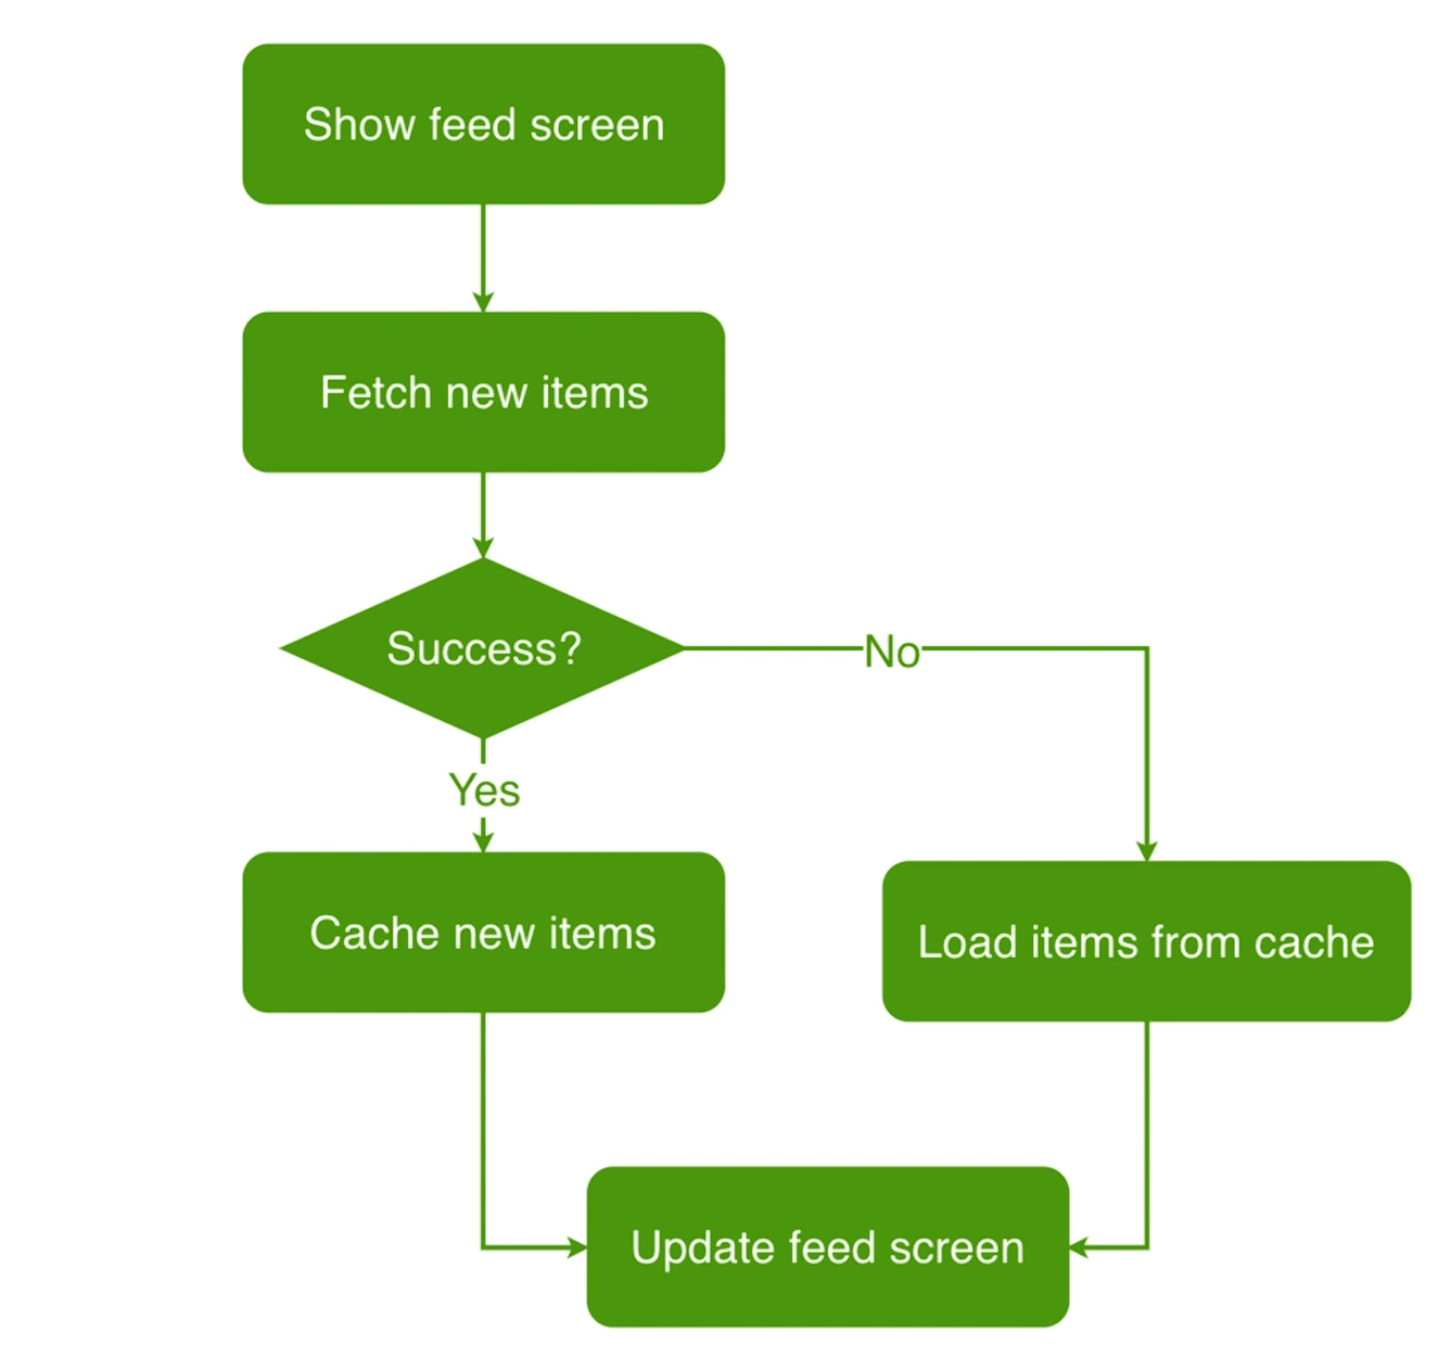
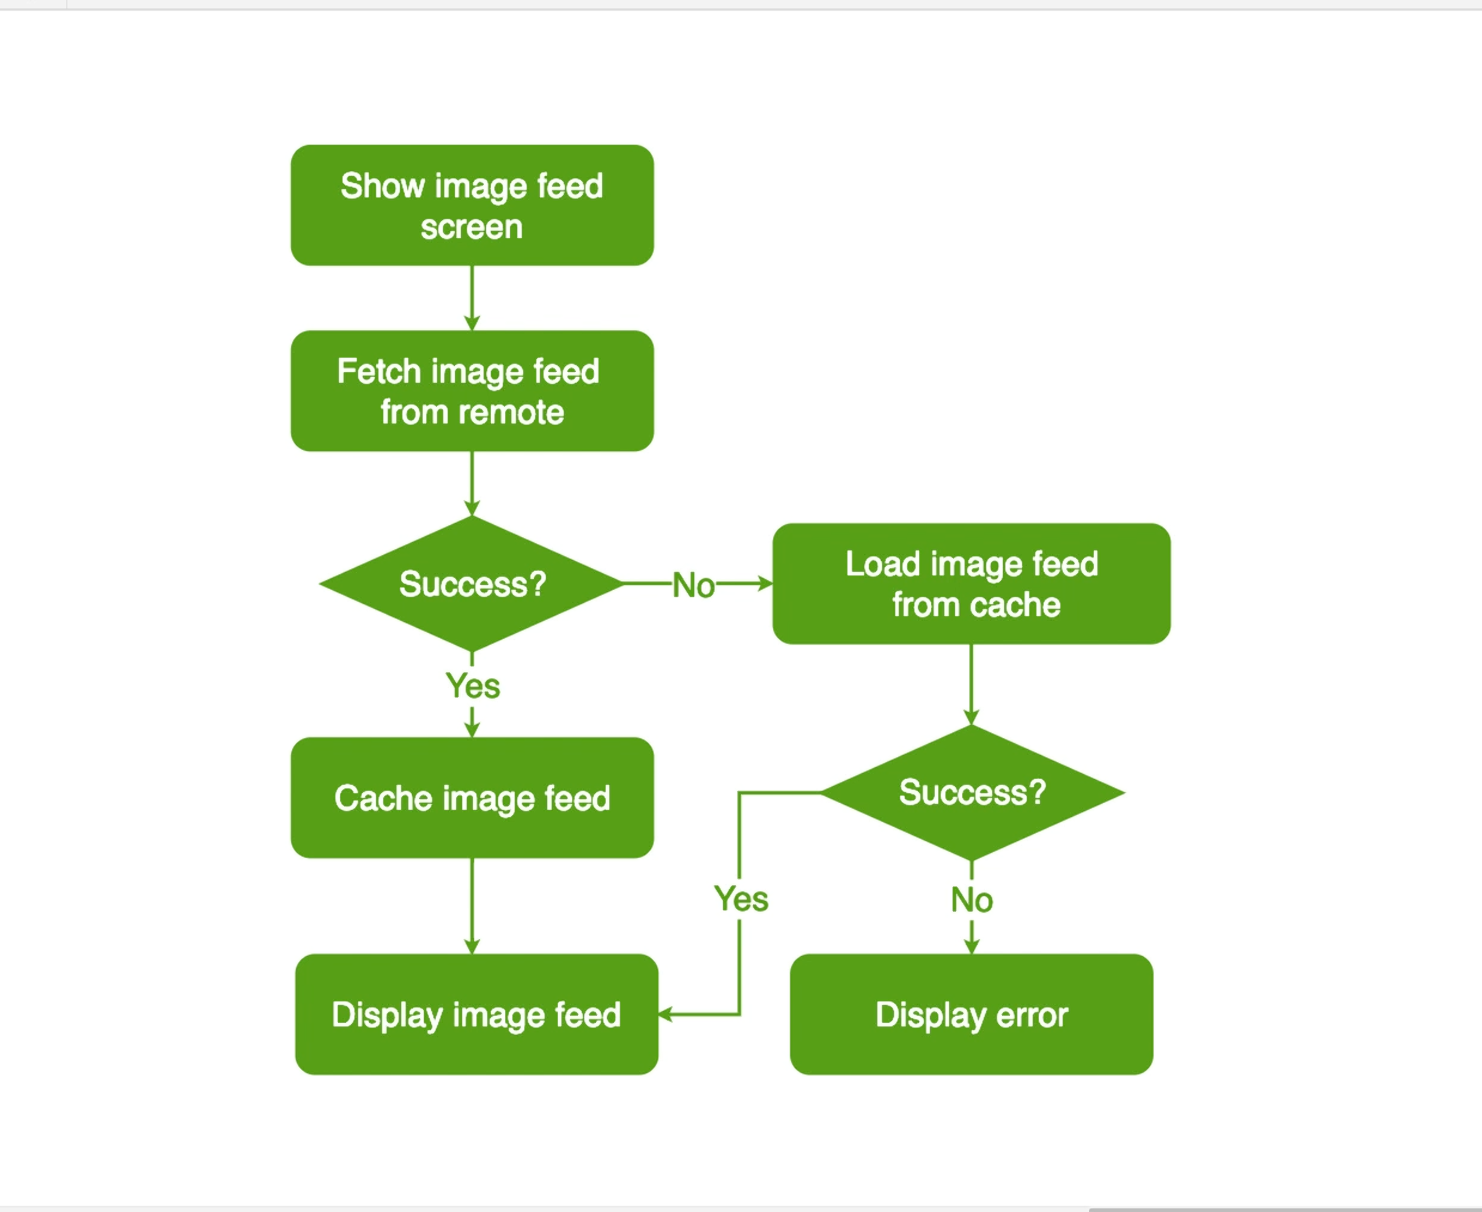
Remove references of "items" in favor of "images" which is a domain term used by domain experts in the specs

Changed region(s): [[0.1556, 0.0305, 0.9959, 0.9769], [0.7469, 0.9769, 1.0, 1.0]]

diff --git a/Tests/EssentialFeedTests/Feed Cache/CacheFeedUseCaseTests.swift b/Tests/EssentialFeedTests/Feed Cache/CacheFeedUseCaseTests.swift
@@ -17,7 +17,7 @@ final class CacheFeedUseCase: XCTestCase {
     func test_save_requestsCacheDeletion() {
         let (sut, store) = makeSUT()
 
-        sut.save(uniqueItems().models) { _ in }
+        sut.save(uniqueImageFeed().models) { _ in }
 
         XCTAssertEqual(store.receivedMessages, [.deleteCachedFeed])
     }
@@ -26,7 +26,7 @@ final class CacheFeedUseCase: XCTestCase {
         let (sut, store) = makeSUT()
         let deletionError = anyNSError()
 
-        sut.save(uniqueItems().models) { _ in }
+        sut.save(uniqueImageFeed().models) { _ in }
         store.completeDeletion(with: deletionError)
 
         XCTAssertEqual(store.receivedMessages, [.deleteCachedFeed])
@@ -34,13 +34,13 @@ final class CacheFeedUseCase: XCTestCase {
 
     func test_save_requestsNewCacheInsertionWithTimestampOnSuccessfulDeletion() {
         let timestamp = Date()
-        let items = uniqueItems()
+        let feed = uniqueImageFeed()
         let (sut, store) = makeSUT(currentDate: { timestamp })
 
-        sut.save(items.models) { _ in }
+        sut.save(feed.models) { _ in }
         store.completeDeletionSuccessfully()
 
-        XCTAssertEqual(store.receivedMessages, [.deleteCachedFeed, .insert(items.local, timestamp)])
+        XCTAssertEqual(store.receivedMessages, [.deleteCachedFeed, .insert(feed.local, timestamp)])
     }
 
     func test_save_failsOnDeletionError() {
@@ -76,7 +76,7 @@ final class CacheFeedUseCase: XCTestCase {
         var sut: LocalFeedLoader? = LocalFeedLoader(store: store, currentDate: Date.init)
 
         var receivedResults = [LocalFeedLoader.SaveResult]()
-        sut?.save(uniqueItems().models) { receivedResults.append($0) }
+        sut?.save(uniqueImageFeed().models) { receivedResults.append($0) }
 
         sut = nil
         store.completeDeletion(with: anyNSError())
@@ -89,7 +89,7 @@ final class CacheFeedUseCase: XCTestCase {
         var sut: LocalFeedLoader? = LocalFeedLoader(store: store, currentDate: Date.init)
 
         var receivedResults = [LocalFeedLoader.SaveResult]()
-        sut?.save(uniqueItems().models) { receivedResults.append($0) }
+        sut?.save(uniqueImageFeed().models) { receivedResults.append($0) }
 
         store.completeDeletionSuccessfully()
         sut = nil
@@ -122,7 +122,7 @@ final class CacheFeedUseCase: XCTestCase {
         let exp = expectation(description: "Wait for save completion")
 
         var receivedError: Error?
-        sut.save(uniqueItems().models) { error in
+        sut.save(uniqueImageFeed().models) { error in
             receivedError = error
             exp.fulfill()
         }
@@ -132,13 +132,13 @@ final class CacheFeedUseCase: XCTestCase {
         XCTAssertEqual(receivedError as? NSError, expectedError, file: file, line: line)
     }
 
-    private func uniqueItem() -> FeedItem {
-        FeedItem(id: UUID(), description: "any", location: "any", imageURL: anyURL())
+    private func uniqueImage() -> FeedImage {
+        FeedImage(id: UUID(), description: "any", location: "any", url: anyURL())
     }
 
-    private func uniqueItems() -> (models: [FeedItem], local: [LocalFeedItem]) {
-        let items = [uniqueItem(), uniqueItem()]
-        let localItems = items.map { LocalFeedItem(id: $0.id, description: $0.description, location: $0.location, imageURL: $0.imageURL) }
+    private func uniqueImageFeed() -> (models: [FeedImage], local: [LocalFeedImage]) {
+        let items = [uniqueImage(), uniqueImage()]
+        let localItems = items.map { LocalFeedImage(id: $0.id, description: $0.description, location: $0.location, url: $0.url) }
         return (items, localItems)
     }
 
@@ -160,9 +160,9 @@ final class CacheFeedUseCase: XCTestCase {
             receivedMessages.append(.deleteCachedFeed)
         }
 
-        func insert(_ items: [LocalFeedItem], timestamp: Date, completion: @escaping InsertionCompletion) {
+        func insert(_ feed: [LocalFeedImage], timestamp: Date, completion: @escaping InsertionCompletion) {
             insertionCompletions.append(completion)
-            receivedMessages.append(.insert(items, timestamp))
+            receivedMessages.append(.insert(feed, timestamp))
         }
 
         // MARK: - Helpers
@@ -185,7 +185,7 @@ final class CacheFeedUseCase: XCTestCase {
 
         enum ReceivedMessage: Equatable {
             case deleteCachedFeed
-            case insert([LocalFeedItem], Date)
+            case insert([LocalFeedImage], Date)
         }
     }
 }

diff --git a/Tests/EssentialFeedAPIEndToEndTests/EssentialFeedAPIEndToEndTests.swift b/Tests/EssentialFeedAPIEndToEndTests/EssentialFeedAPIEndToEndTests.swift
@@ -14,16 +14,16 @@ struct EssentialFeedAPIEndToEndTests {
     @Test
     func `end to end test server GET feed result matches fixed test account data`() async {
         switch await getFeedResult() {
-        case let .success(items):
-            #expect(items.count == 8, "Expected 8 items in the test account feed")
-            #expect(items[0] == expectedItem(at: 0))
-            #expect(items[1] == expectedItem(at: 1))
-            #expect(items[2] == expectedItem(at: 2))
-            #expect(items[3] == expectedItem(at: 3))
-            #expect(items[4] == expectedItem(at: 4))
-            #expect(items[5] == expectedItem(at: 5))
-            #expect(items[6] == expectedItem(at: 6))
-            #expect(items[7] == expectedItem(at: 7))
+        case let .success(imageFeed):
+            #expect(imageFeed.count == 8, "Expected 8 images in the test account image feed")
+            #expect(imageFeed[0] == expectedImage(at: 0))
+            #expect(imageFeed[1] == expectedImage(at: 1))
+            #expect(imageFeed[2] == expectedImage(at: 2))
+            #expect(imageFeed[3] == expectedImage(at: 3))
+            #expect(imageFeed[4] == expectedImage(at: 4))
+            #expect(imageFeed[5] == expectedImage(at: 5))
+            #expect(imageFeed[6] == expectedImage(at: 6))
+            #expect(imageFeed[7] == expectedImage(at: 7))
 
         case let .failure(error):
             Issue.record("Expected successful feed result, got \(error) instead")
@@ -49,12 +49,12 @@ struct EssentialFeedAPIEndToEndTests {
         }
     }
 
-    private func expectedItem(at index: Int) -> FeedItem {
-        FeedItem(
+    private func expectedImage(at index: Int) -> FeedImage {
+        FeedImage(
             id: id(at: index),
             description: description(at: index),
             location: location(at: index),
-            imageURL: imageURL(at: index),
+            url: imageURL(at: index),
         )
     }
 

diff --git a/Sources/EssentialFeed/Feed Cache/LocalFeedLoader.swift b/Sources/EssentialFeed/Feed Cache/LocalFeedLoader.swift
@@ -16,27 +16,27 @@ public final class LocalFeedLoader {
         self.currentDate = currentDate
     }
 
-    public func save(_ items: [FeedItem], completion: @escaping (SaveResult) -> Void) {
+    public func save(_ feed: [FeedImage], completion: @escaping (SaveResult) -> Void) {
         store.deleteCachedFeed { [weak self] cacheDeletionError in
             guard let self else { return }
             if let cacheDeletionError {
                 completion(cacheDeletionError)
             } else {
-                cache(items, with: completion)
+                cache(feed, with: completion)
             }
         }
     }
 
-    private func cache(_ items: [FeedItem], with completion: @escaping (SaveResult) -> Void) {
-        store.insert(items.toLocal(), timestamp: currentDate()) { [weak self] error in
+    private func cache(_ feed: [FeedImage], with completion: @escaping (SaveResult) -> Void) {
+        store.insert(feed.toLocal(), timestamp: currentDate()) { [weak self] error in
             guard self != nil else { return }
             completion(error)
         }
     }
 }
 
-private extension [FeedItem] {
-    func toLocal() -> [LocalFeedItem] {
-        map { LocalFeedItem(id: $0.id, description: $0.description, location: $0.location, imageURL: $0.imageURL) }
+private extension [FeedImage] {
+    func toLocal() -> [LocalFeedImage] {
+        map { LocalFeedImage(id: $0.id, description: $0.description, location: $0.location, url: $0.url) }
     }
 }

diff --git a/Sources/EssentialFeed/Feed Cache/LocalFeedImage.swift b/Sources/EssentialFeed/Feed Cache/LocalFeedImage.swift
@@ -1,20 +1,20 @@
 //
-// FeedItem.swift
+// LocalFeedImage.swift
 // Copyright © 2025 Ángel Vázquez. All rights reserved.
 //
 
 import Foundation
 
-public struct FeedItem: Equatable {
+public struct LocalFeedImage: Equatable {
     public let id: UUID
     public let description: String?
     public let location: String?
-    public let imageURL: URL
+    public let url: URL
 
-    public init(id: UUID, description: String?, location: String?, imageURL: URL) {
+    public init(id: UUID, description: String?, location: String?, url: URL) {
         self.id = id
         self.description = description
         self.location = location
-        self.imageURL = imageURL
+        self.url = url
     }
 }

diff --git a/Sources/EssentialFeed/Feed Feature/FeedImage.swift b/Sources/EssentialFeed/Feed Feature/FeedImage.swift
@@ -1,20 +1,20 @@
 //
-// LocalFeedItem.swift
+// FeedImage.swift
 // Copyright © 2025 Ángel Vázquez. All rights reserved.
 //
 
 import Foundation
 
-public struct LocalFeedItem: Equatable {
+public struct FeedImage: Equatable {
     public let id: UUID
     public let description: String?
     public let location: String?
-    public let imageURL: URL
+    public let url: URL
 
-    public init(id: UUID, description: String?, location: String?, imageURL: URL) {
+    public init(id: UUID, description: String?, location: String?, url: URL) {
         self.id = id
         self.description = description
         self.location = location
-        self.imageURL = imageURL
+        self.url = url
     }
 }

diff --git a/Tests/EssentialFeedTests/Feed API/LoadFeedFromRemoteUseCaseTests.swift b/Tests/EssentialFeedTests/Feed API/LoadFeedFromRemoteUseCaseTests.swift
@@ -136,8 +136,8 @@ struct LoadFeedFromRemoteUseCaseTests {
         description: String? = nil,
         location: String? = nil,
         imageURL: URL,
-    ) -> (model: FeedItem, json: [String: Any]) {
-        let item = FeedItem(id: id, description: description, location: location, imageURL: imageURL)
+    ) -> (model: FeedImage, json: [String: Any]) {
+        let item = FeedImage(id: id, description: description, location: location, url: imageURL)
         let json = [
             "id": id.uuidString,
             "description": description,

diff --git a/Sources/EssentialFeed/Feed API/RemoteFeedLoader.swift b/Sources/EssentialFeed/Feed API/RemoteFeedLoader.swift
@@ -44,7 +44,7 @@ public final class RemoteFeedLoader: FeedLoader {
 }
 
 private extension [RemoteFeedItem] {
-    func toModels() -> [FeedItem] {
-        map { FeedItem(id: $0.id, description: $0.description, location: $0.location, imageURL: $0.image) }
+    func toModels() -> [FeedImage] {
+        map { FeedImage(id: $0.id, description: $0.description, location: $0.location, url: $0.image) }
     }
 }

diff --git a/Sources/EssentialFeed/Feed Cache/FeedStore.swift b/Sources/EssentialFeed/Feed Cache/FeedStore.swift
@@ -10,5 +10,5 @@ public protocol FeedStore {
     typealias InsertionCompletion = (Error?) -> Void
 
     func deleteCachedFeed(completion: @escaping DeletionCompletion)
-    func insert(_ items: [LocalFeedItem], timestamp: Date, completion: @escaping InsertionCompletion)
+    func insert(_ feed: [LocalFeedImage], timestamp: Date, completion: @escaping InsertionCompletion)
 }

diff --git a/Sources/EssentialFeed/Feed Feature/FeedLoader.swift b/Sources/EssentialFeed/Feed Feature/FeedLoader.swift
@@ -4,7 +4,7 @@
 //
 
 public enum LoadFeedResult {
-    case success([FeedItem])
+    case success([FeedImage])
     case failure(Error)
 }
 

diff --git a/Docs/image-feed-feature-load-feed-from-cache-use-case.md b/Docs/image-feed-feature-load-feed-from-cache-use-case.md
@@ -9,11 +9,11 @@
 
 **Primary course**:
 
-1. Execute "Load Feed Items" command with above data.
+1. Execute "Load Image Feed" command with above data.
 2. System fetches feed data from cache. 
 3. System validates cache is less than seven days old.
-4. System creates feed items from cached data.
-5. System delivers feed items. 
+4. System creates image feed from cached data.
+5. System delivers image feed. 
 
 **Error course (sad path)**:
 
@@ -22,8 +22,8 @@
 **Expired cache course (sad path)**:
 
 1. System deletes cache.
-2. System delivers no feed items.
+2. System delivers no feed images.
 
 **No cache course (sad path)**:
 
-1. System delivers no feed items.
+1. System delivers no feed images.

diff --git a/Docs/image-feed-feature-load-feed-from-remote-use-case.md b/Docs/image-feed-feature-load-feed-from-remote-use-case.md
@@ -8,11 +8,11 @@
 
 **Primary course (happy path)**:
 
-1. Execute "Load Feed Items" command with above data.
+1. Execute "Load Image Feed" command with above data.
 2. System downloads data from the URL.
 3. System validates downloaded data.
-4. System creates feed items from valid data.
-5. System delivers feed items. 
+4. System creates image feed from valid data.
+5. System delivers image feed. 
 
 **Invalid data - error course (sad path)**:
 

diff --git a/Docs/image-feed-feature-cache-feed-use-case.md b/Docs/image-feed-feature-cache-feed-use-case.md
@@ -5,13 +5,13 @@
 
 **Data**:
 
-- Feed Items
+- Image Feed
 
 **Primary course (happy path)**:
 
-1. Execute "Save Feed Items" command with above data. 
+1. Execute "Save Image Feed" command with above data. 
 2. System deletes old cache data.
-3. System encodes feed items. 
+3. System encodes image feed. 
 4. System timestamps the new cache. 
 5. System saves new cache date. 
 6. System delivers success message.
